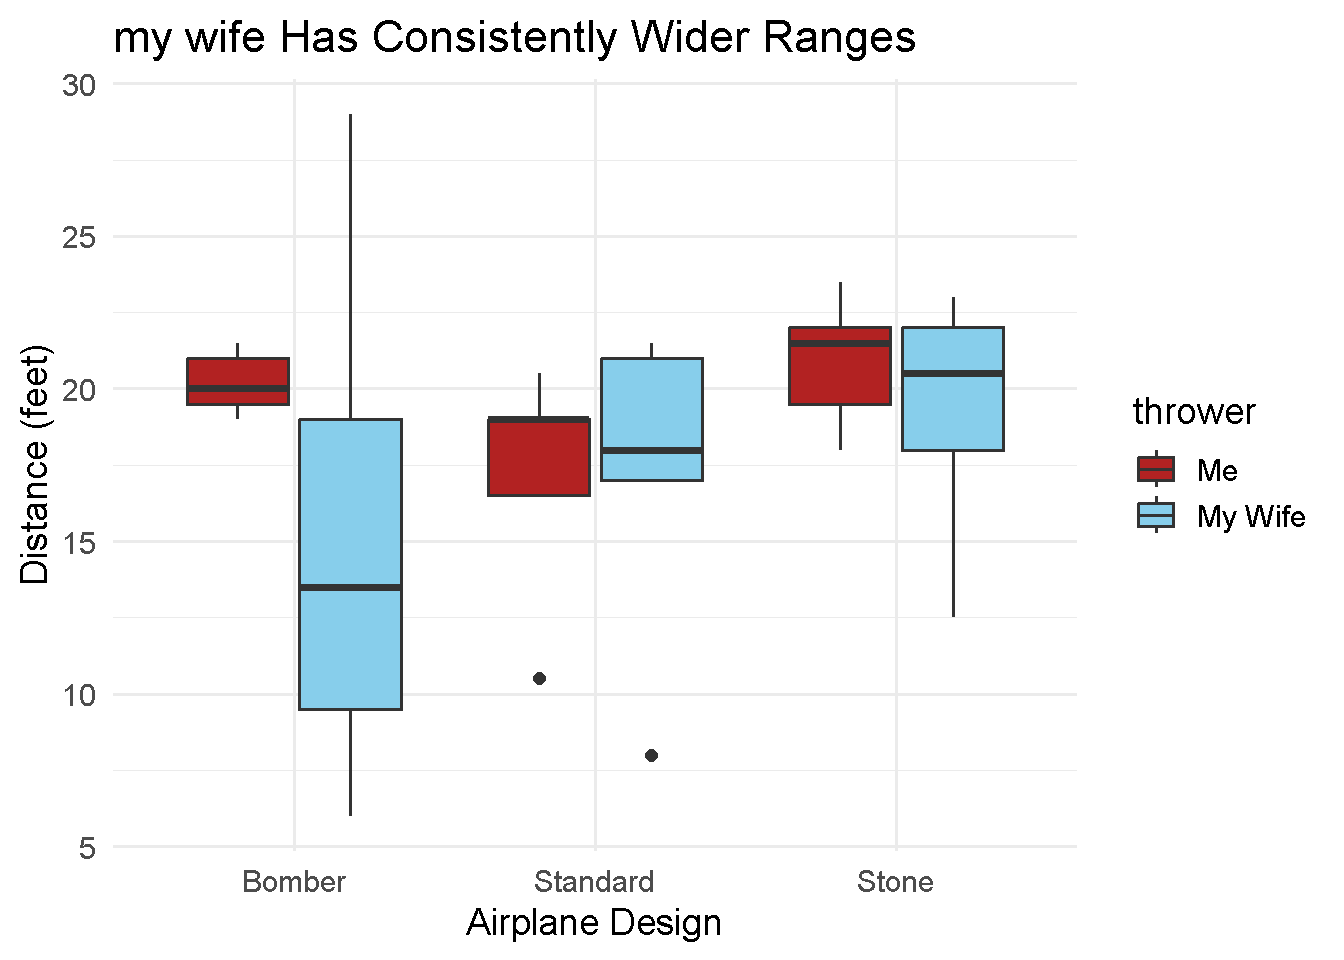
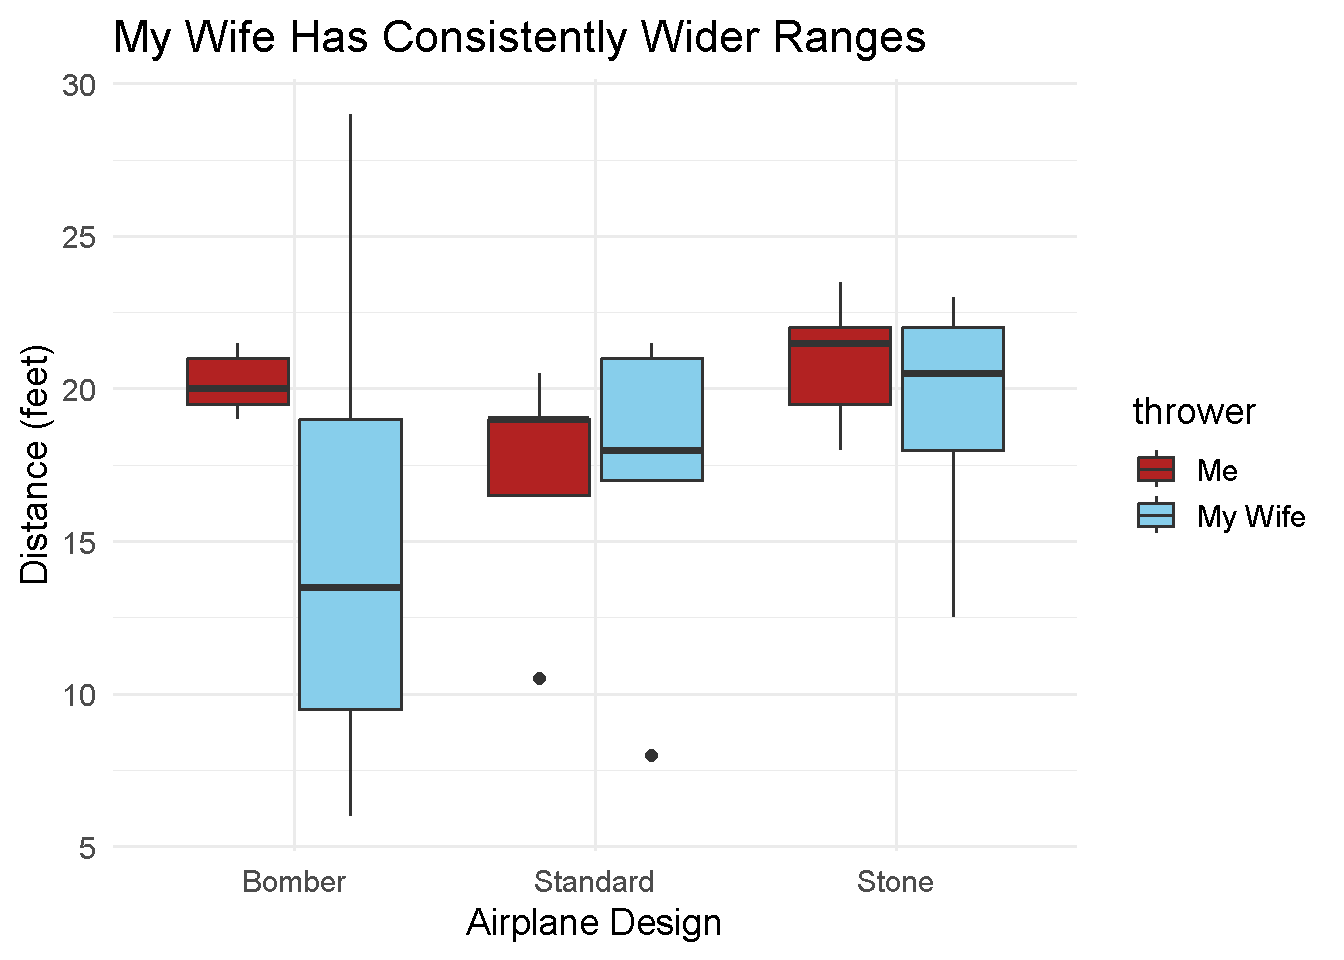
typos

Changed region(s): [[0.0938, 0.0, 0.6875, 0.0625]]

diff --git a/docs/statistical-analysis/anova-plane.html b/docs/statistical-analysis/anova-plane.html
@@ -380,7 +380,7 @@ H_a: \beta_\text{Me} \neq \beta_\text{my wife}
 </section>
 <section id="data-collection" class="level2">
 <h2 class="anchored" data-anchor-id="data-collection">Data Collection</h2>
-<p>We collected our data by throwing the 15 paper airplanes in an empty gymnasium at the BYUI University as it was the most controlled environment available to us at the time. my wife threw her planes for an earlier experiment (Case Study 1). I threw his at a different time with the same randomizations and experiment structure. We measured how far each plane flew and recorded the data in feet.</p>
+<p>We collected our data by throwing the 15 paper airplanes in an empty gymnasium at the BYUI University as it was the most controlled environment available to us at the time. My wife threw her planes for an earlier experiment (Case Study 1). I threw his at a different time with the same randomizations and experiment structure. We measured how far each plane flew and recorded the data in feet.</p>
 </section>
 <section id="descriptive-stats" class="level2">
 <h2 class="anchored" data-anchor-id="descriptive-stats">Descriptive Stats</h2>
@@ -524,7 +524,7 @@ H_a: \beta_\text{Me} \neq \beta_\text{my wife}
 <div class="sourceCode cell-code" id="cb3"><pre class="sourceCode r code-with-copy"><code class="sourceCode r"><span id="cb3-1"><a href="#cb3-1" aria-hidden="true" tabindex="-1"></a><span class="fu">ggplot</span>(data, <span class="fu">aes</span>(<span class="at">x =</span> type, <span class="at">y =</span> dist, <span class="at">fill =</span> thrower)) <span class="sc">+</span></span>
 <span id="cb3-2"><a href="#cb3-2" aria-hidden="true" tabindex="-1"></a>  <span class="fu">geom_boxplot</span>() <span class="sc">+</span></span>
 <span id="cb3-3"><a href="#cb3-3" aria-hidden="true" tabindex="-1"></a>  <span class="fu">labs</span>(</span>
-<span id="cb3-4"><a href="#cb3-4" aria-hidden="true" tabindex="-1"></a>    <span class="at">title =</span> <span class="st">"my wife Has Consistently Wider Ranges"</span>,</span>
+<span id="cb3-4"><a href="#cb3-4" aria-hidden="true" tabindex="-1"></a>    <span class="at">title =</span> <span class="st">"My Wife Has Consistently Wider Ranges"</span>,</span>
 <span id="cb3-5"><a href="#cb3-5" aria-hidden="true" tabindex="-1"></a>    <span class="at">x =</span> <span class="st">"Airplane Design"</span>,</span>
 <span id="cb3-6"><a href="#cb3-6" aria-hidden="true" tabindex="-1"></a>    <span class="at">y =</span> <span class="st">"Distance (feet)"</span></span>
 <span id="cb3-7"><a href="#cb3-7" aria-hidden="true" tabindex="-1"></a>  ) <span class="sc">+</span></span>

diff --git a/docs/statistical-analysis/index.html b/docs/statistical-analysis/index.html
@@ -137,7 +137,7 @@ A collection of statistical investigations, predictive models, and analytical pr
 </div>
 <div class="project-grid">
 <div class="project-card">
-<p><span class="project-number">01 / STATISTICS</span></p>
+<p><span class="project-number">01 / LOGISTIC REGRESSION</span></p>
 <section id="heart-attack-mortality" class="level2">
 <h2 class="anchored" data-anchor-id="heart-attack-mortality">Heart Attack Mortality</h2>
 <p>A Logistic Regression Model which uses minimal variables in order to be graphable in 3D as well as completely explanable.</p>
@@ -147,9 +147,9 @@ A collection of statistical investigations, predictive models, and analytical pr
 </section>
 </div>
 <div class="project-card">
-<p><span class="project-number">02 / PREDICTIVE ANALYTICS</span></p>
-<section id="housing-prediction" class="level2">
-<h2 class="anchored" data-anchor-id="housing-prediction">Housing Prediction</h2>
+<p><span class="project-number">02 / ADVANCE LINEAR REGRESSION</span></p>
+<section id="house-price-prediction" class="level2">
+<h2 class="anchored" data-anchor-id="house-price-prediction">House Price Prediction</h2>
 <p>A predictive modeling project uses a Two Lines Linear Regression to predict housing prices. The goal is complete intelligabilty as opposed to simply attempting to get good predictions.</p>
 <p><strong>OVERVIEW</strong></p>
 <p>This model is based on house square footage but then splits into two lines based on whether that neighborhood is rich or not. This is acheived through a linear regression model using a binary variable as a “switch”.</p>
@@ -158,8 +158,8 @@ A collection of statistical investigations, predictive models, and analytical pr
 </div>
 <div class="project-card">
 <p><span class="project-number">03 / EXPERIMENTAL DESIGN</span></p>
-<section id="anova-plane" class="level2">
-<h2 class="anchored" data-anchor-id="anova-plane">ANOVA Plane</h2>
+<section id="paper-airplane-anova" class="level2">
+<h2 class="anchored" data-anchor-id="paper-airplane-anova">Paper Airplane ANOVA</h2>
 <p>An application of Analysis of Variance (ANOVA) to investigate differences between groups and evaluate statistical significance.</p>
 <p><strong>OVERVIEW</strong></p>
 <p>This is a playful usage of a BF[2] ANOVA using 3 types of paper airplanes and whether I threw the plane or if my wife threw the plane to see if there are any significant changes in distance flown.</p>
